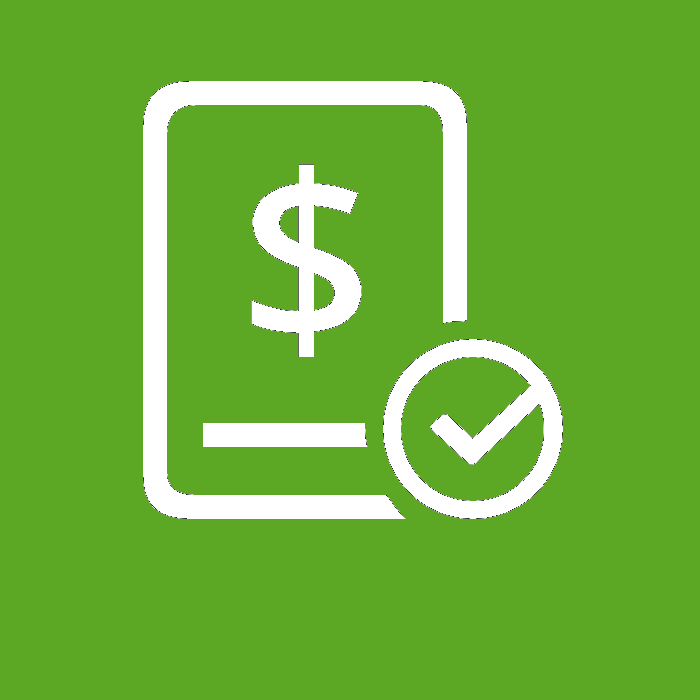
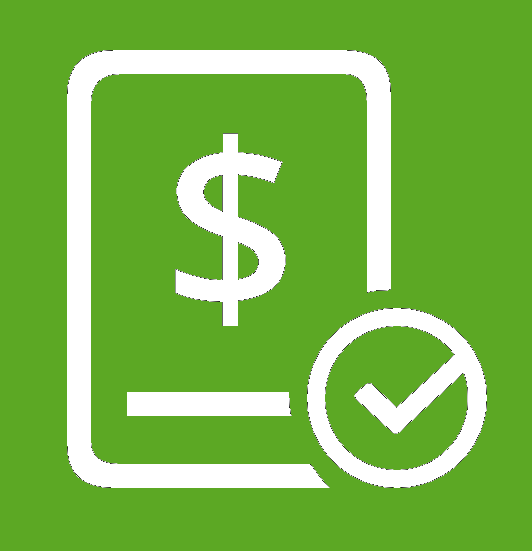
dickish colours

Changed region(s): [[0.1203, 0.0926, 0.9323, 0.8947]]

diff --git a/script.js b/script.js
@@ -209,13 +209,13 @@ app.controller("portalCtrl", function($scope,$location,$http,$window){
 					"background-size" : "65%"
 				}
 				$scope.firstStyle = {
-					"background-color" : "#48A431",
+					"background-color" : "#5CA824",
 					"height" : "85px",
 					"width" : "85px",
-					"background-image" : "url(http://i346.photobucket.com/albums/p427/Andrew_Kwik/paymentConfirmedNEWedited_zpsfs0xxlt0.png)",
+					"background-image" : "url(http://i346.photobucket.com/albums/p427/Andrew_Kwik/paymentConfirmedNEWedited_zpsfikqiifs.png)",
 					"background-repeat" : "no-repeat",
 					"background-position" : "center",
-					"background-size" : "65%"
+					"background-size" : "47%"
 				}
 
 				$scope.dateEst = day + "/" + month + "/" + year;
